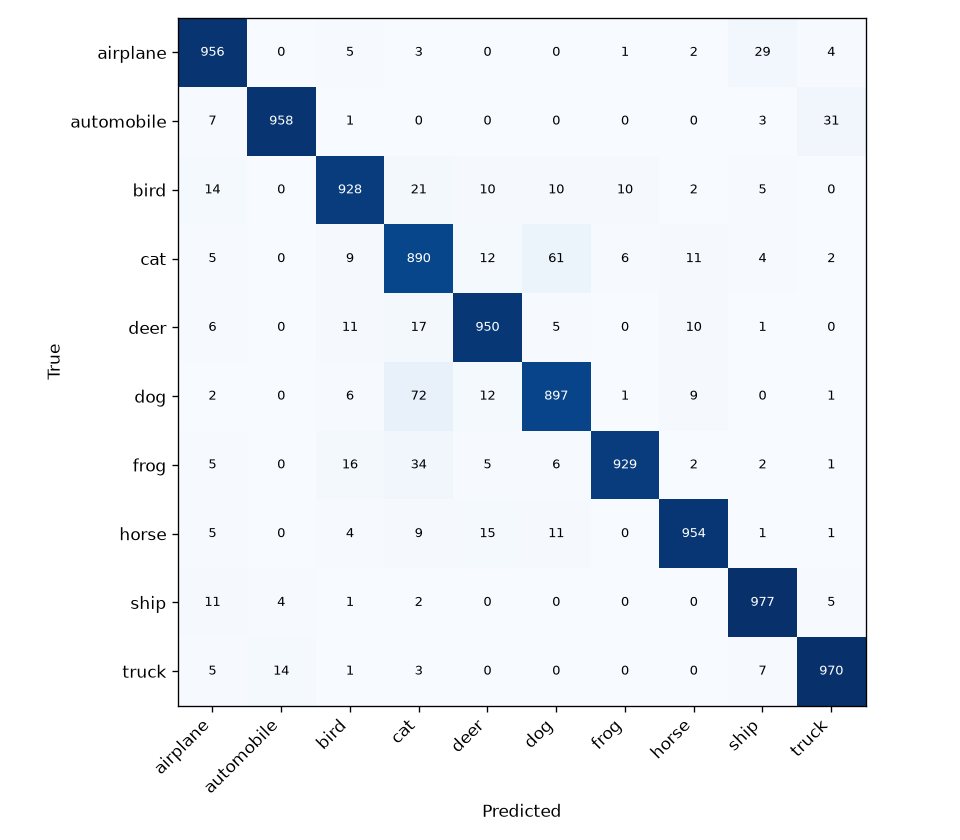
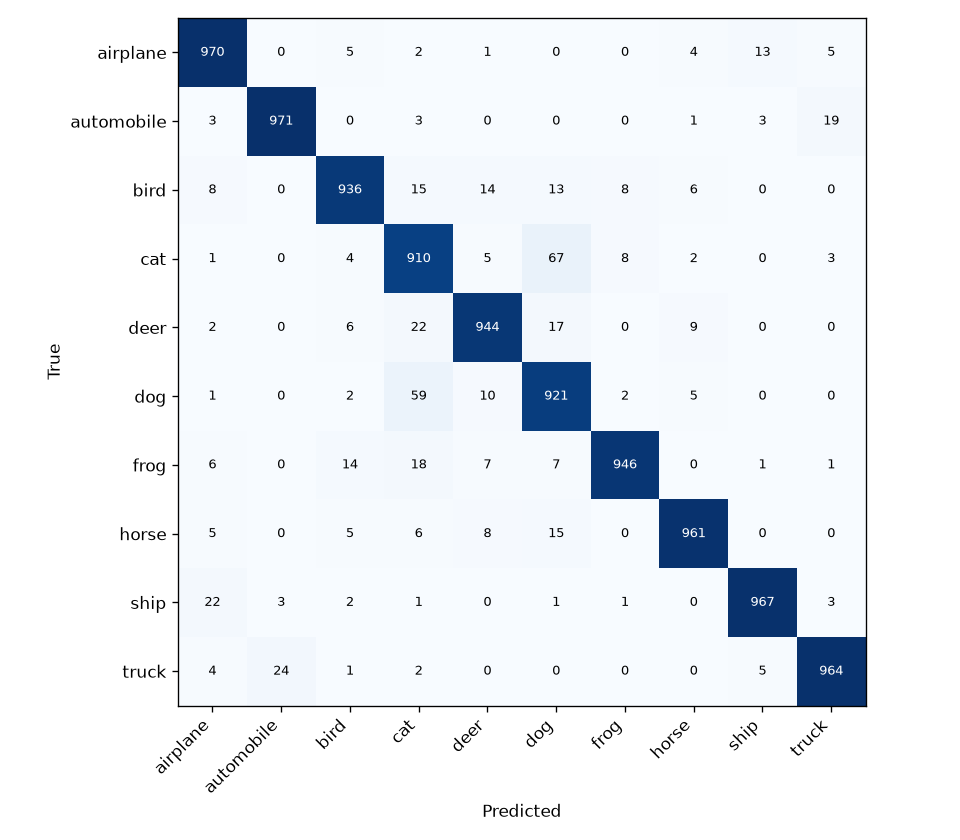
final tuned model, metadata and test evaluation

diff --git a/src/training/train.py b/src/training/train.py
@@ -1,10 +1,13 @@
 import argparse
 import time
 import mlflow
+import json
+
 
 import torch
 from torch import nn
 from torch.utils.data import DataLoader, Subset
+from datetime import datetime, timezone
 
 from src.data.dataset import build_dataloaders
 from src.models.resnet import build_model, get_device
@@ -51,9 +54,17 @@ def main():
     parser.add_argument("--lr", type=float, default=None)
     parser.add_argument("--run-name", default="resnet18")
     parser.add_argument("--policy", choices=["none", "standard", "strong"], default="standard")
+    parser.add_argument("--params", default=None, help="JSON file with tuned hyperparameters")
     args = parser.parse_args()
 
     config = load_config()
+    if args.params:
+        best = json.loads((PROJECT_ROOT / args.params).read_text())
+        config["training"]["learning_rate"] = best["learning_rate"]
+        config["training"]["weight_decay"] = best["weight_decay"]
+        config["training"]["dropout"] = best["dropout"]
+        config["data"]["batch_size"] = best["batch_size"]
+
     set_seed(config["project"]["seed"])
     device = get_device()
     epochs = args.epochs or config["training"]["epochs"]
@@ -80,6 +91,7 @@ def main():
         mlflow.log_params({"model": config["training"]["model"], "learning_rate": lr,
                            "weight_decay": config["training"]["weight_decay"], "epochs": epochs,
                            "batch_size": config["data"]["batch_size"], "optimizer": "AdamW",
+                           "dropout": config["training"].get("dropout", 0.2),
                            "seed": config["project"]["seed"], "train_images": len(train_dl.dataset),"augmentation": args.policy})
         mlflow.log_artifact(str(PROJECT_ROOT / "configs" / "config.yaml"))
 
@@ -99,7 +111,20 @@ def main():
                 logger.info("saved best model (val_acc=%.4f)", val_acc)
 
         mlflow.log_metric("best_validation_accuracy", best_acc)
-        mlflow.log_artifact(str(ckpt_path))          # the model file is stored with the run
+        mlflow.log_artifact(str(ckpt_path))
+        metadata = {
+            "model_name": "resnet18", "model_version": "1.0.0",
+            "dataset": "cifar10", "classes": 10, "augmentation": args.policy,
+            "training_config": {"learning_rate": lr, "epochs": epochs,
+                                "batch_size": config["data"]["batch_size"],
+                                "weight_decay": config["training"]["weight_decay"],
+                                "dropout": config["training"].get("dropout", 0.2),
+                                "seed": config["project"]["seed"]},
+            "metrics": {"best_validation_accuracy": best_acc},
+            "mlflow_run_id": mlflow.active_run().info.run_id,
+            "timestamp": datetime.now(timezone.utc).isoformat(timespec="seconds"),
+        }
+        (PROJECT_ROOT / "models" / f"{args.run_name}_metadata.json").write_text(json.dumps(metadata, indent=2))          # the model file is stored with the run
 
 
 if __name__ == "__main__":

diff --git a/src/models/resnet.py b/src/models/resnet.py
@@ -23,7 +23,8 @@ class VisionIQResNet(nn.Module):
 
 
 def build_model(config):
-    return VisionIQResNet(input_size=config["data"]["image_size"])
+    return VisionIQResNet(dropout=config["training"].get("dropout", 0.2),
+                          input_size=config["data"]["image_size"])
 
 
 def get_device():
